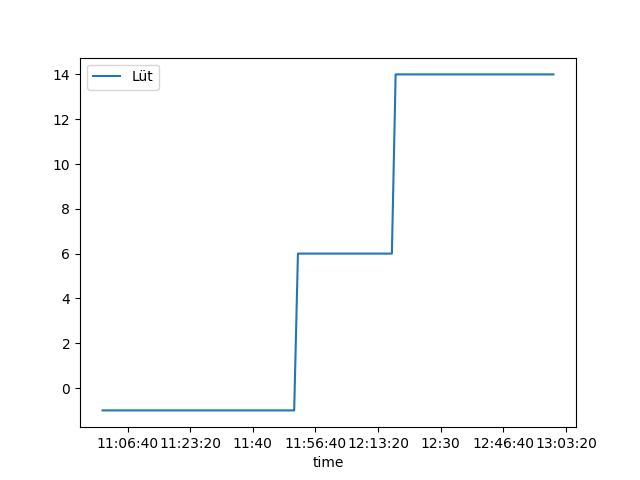
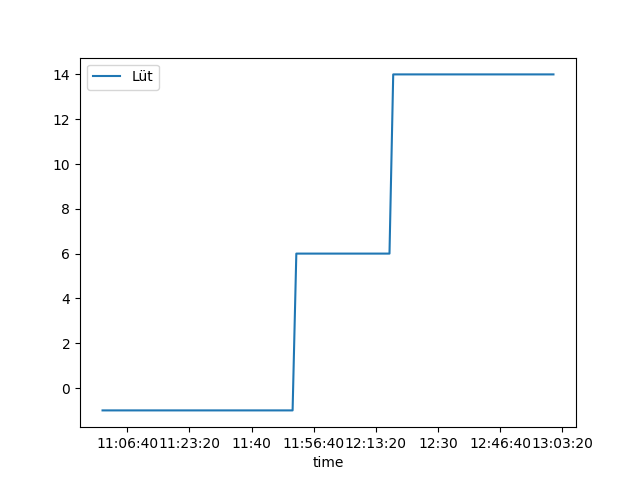
auto: new data

Changed region(s): [[0.25, 0.9062, 0.9375, 0.9375], [0.5938, 0.1562, 0.625, 0.5312], [0.4375, 0.5312, 0.4688, 0.8438]]

diff --git a/README.md b/README.md
@@ -1,4 +1,4 @@
-### Jitz grad: 14/33 (Sunnti, 2022-01-02 13:00:00
+### Jitz grad: 14/33 (Sunnti, 2022-01-02 13:01:00
 
 ### Hütige Vrlouf:
 ![Graph](Today.png)
